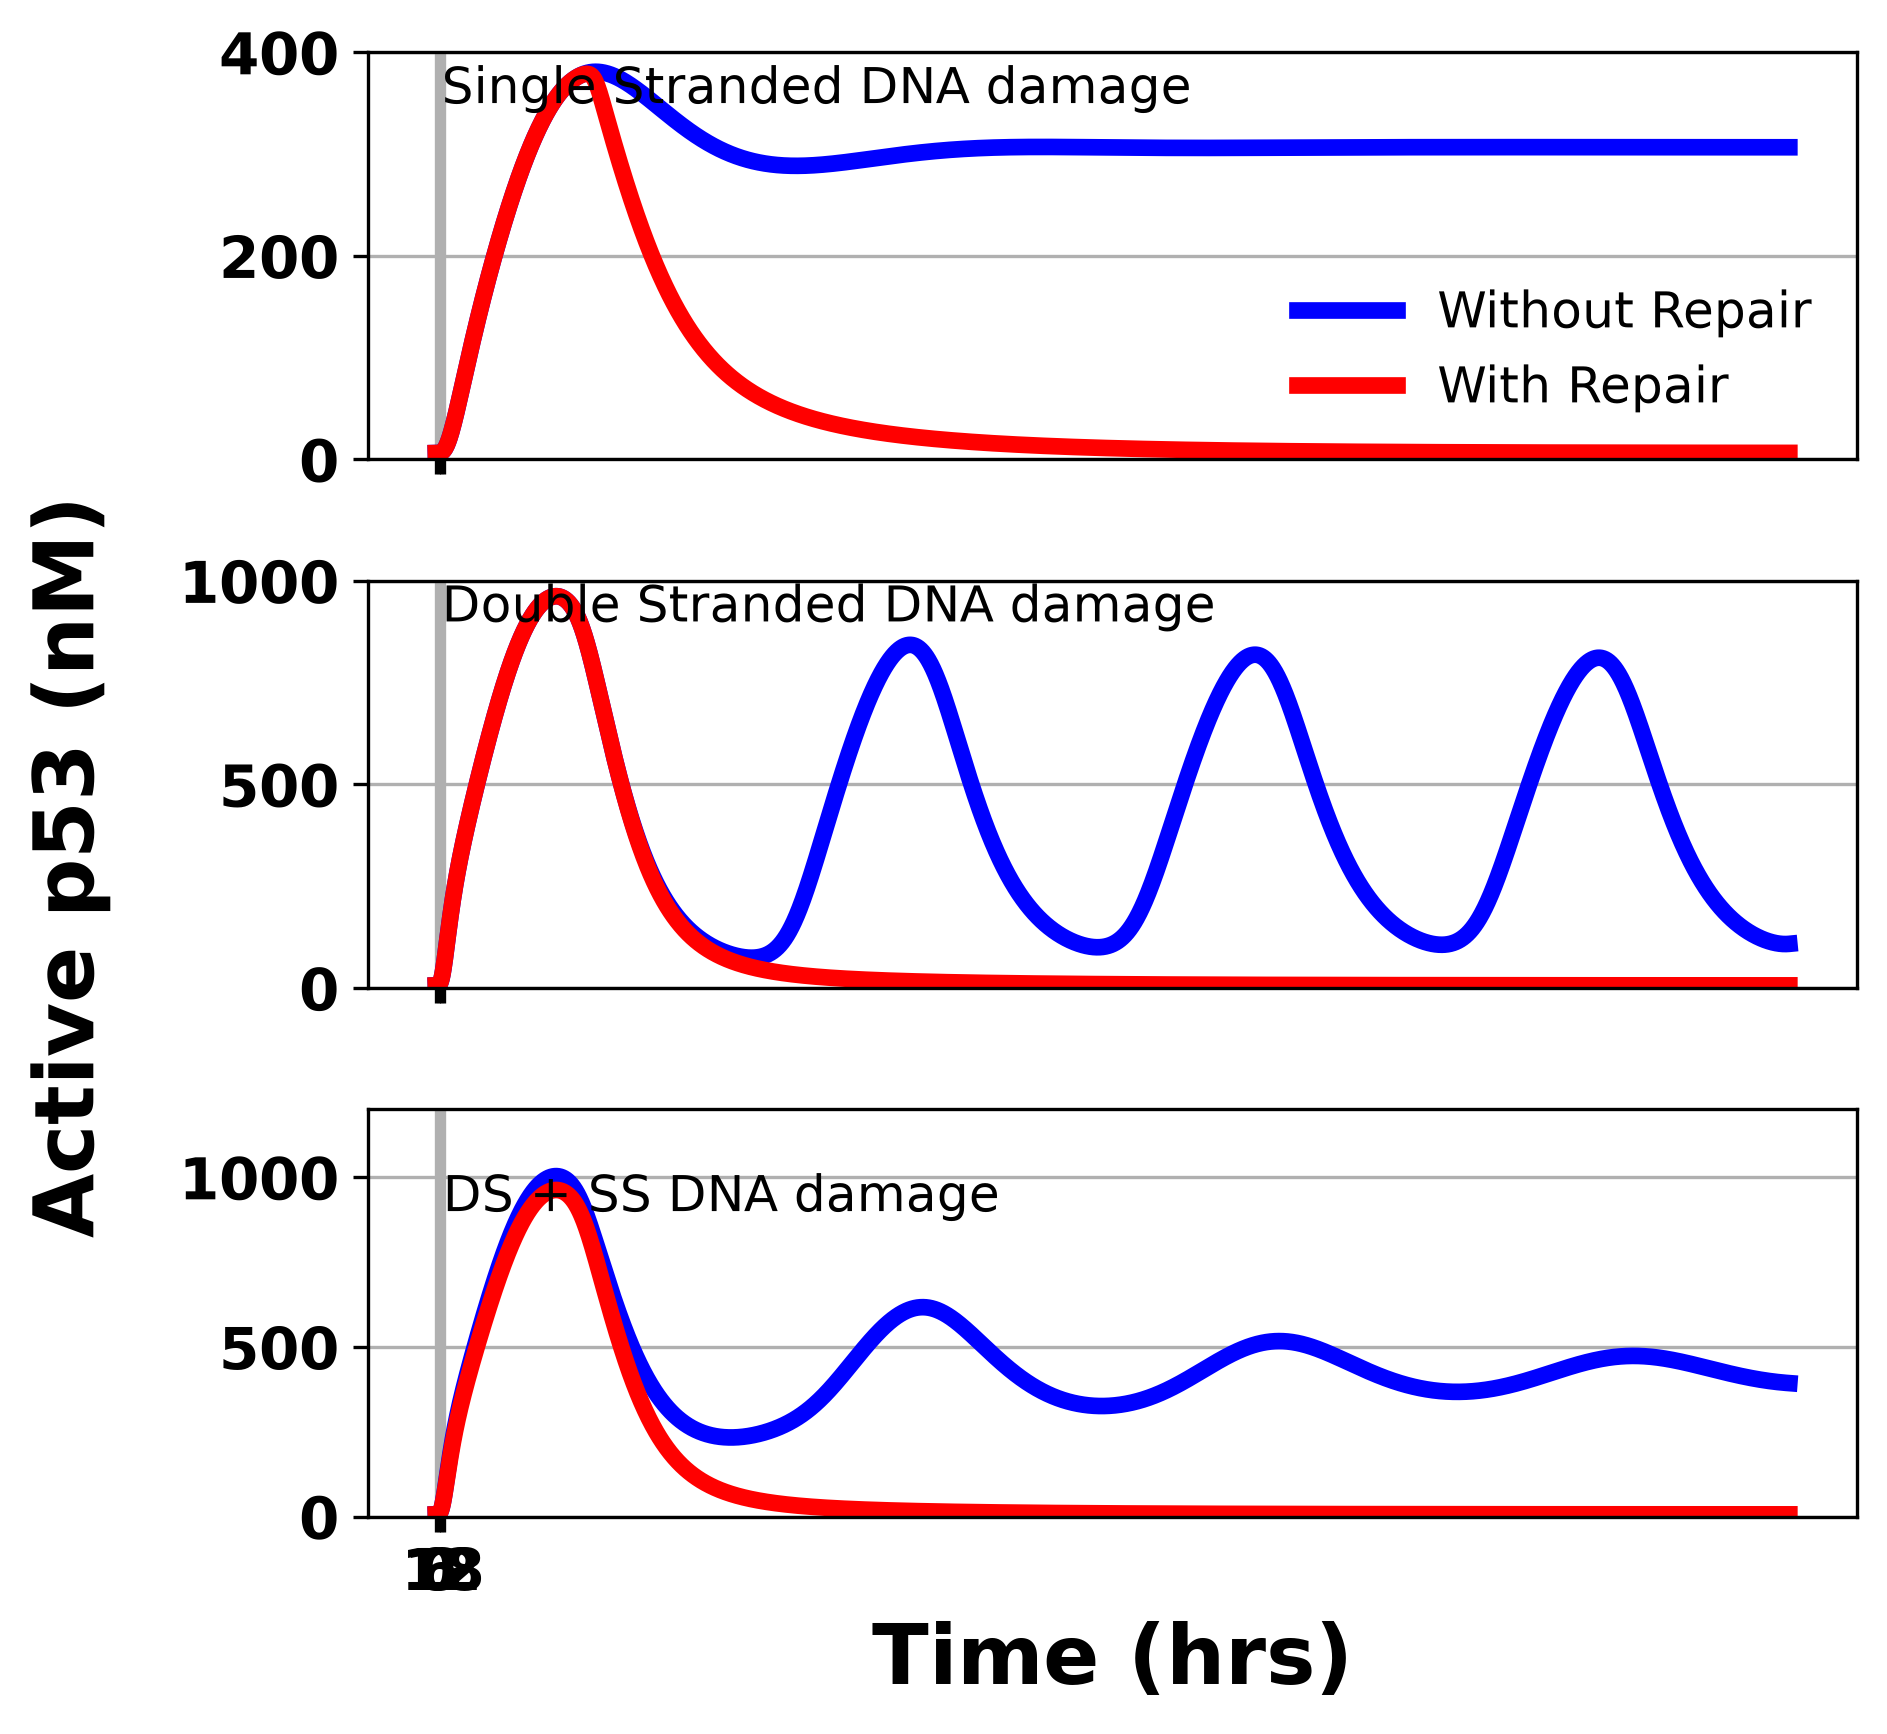
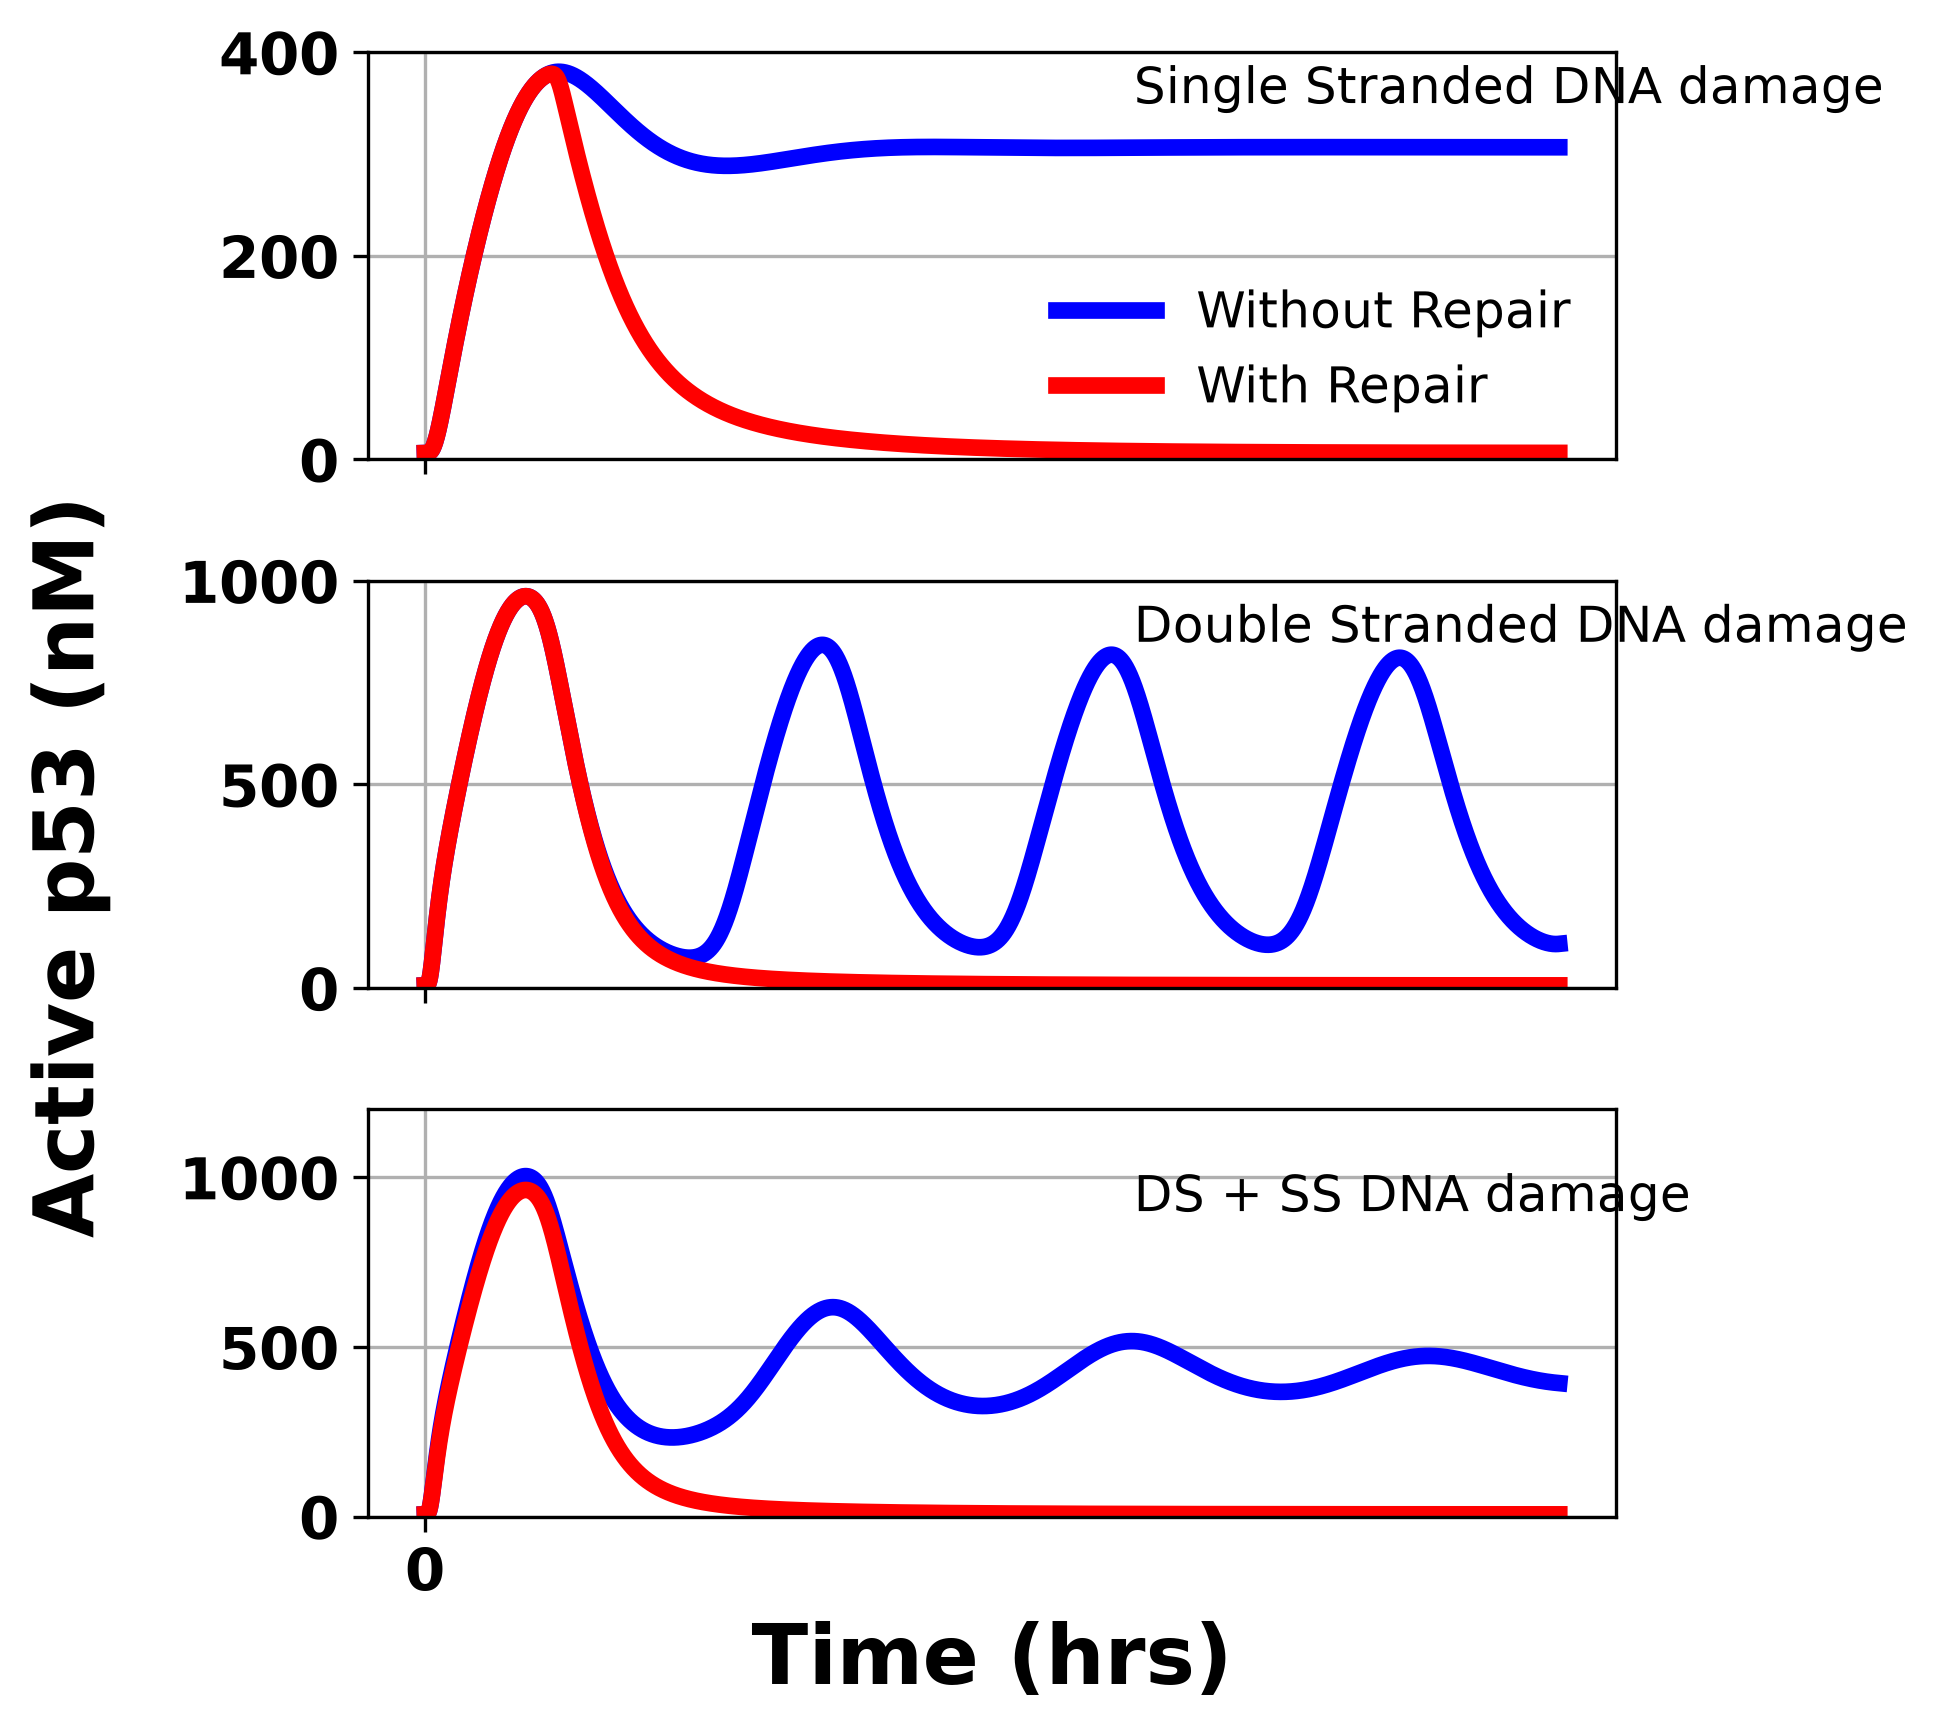
Attempt to fix DNA repair figure

diff --git a/models/official/stochastic-gene-expression-v1.4.2/results/benchmarks/DNA_repair/plot.py b/models/official/stochastic-gene-expression-v1.4.2/results/benchmarks/DNA_repair/plot.py
@@ -44,10 +44,10 @@ def style_ticks(ax, axis="both"):
 single_without_repair = pd.read_csv("DNA_repair_step_1_cell_1.tsv", sep="\t", index_col=0)
 single_with_repair =    pd.read_csv("DNA_repair_step_2_cell_1.tsv", sep="\t", index_col=0)
 
-axs[0].plot(single_without_repair.index,
+axs[0].plot(single_without_repair.index / 3600,
             single_without_repair["nuc_prot_a__P53_"],
             label='Without Repair', color='blue', linewidth=4)
-axs[0].plot(single_with_repair.index,
+axs[0].plot(single_with_repair.index / 3600,
             single_with_repair["nuc_prot_a__P53_"],
             label='With Repair', color='red', linewidth=4)
             
@@ -55,40 +55,40 @@ axs[0].grid(True)
 axs[0].set_ylim(0, 400)
 axs[0].set_xticks(np.arange(0, 24, step=6))
 axs[0].legend(frameon=False)
-axs[0].text(12.50, 350.0, 'Single Stranded DNA damage', fontsize=12)
+axs[0].text(0.50, 350.0, 'Single Stranded DNA damage', fontsize=12)
 style_ticks(axs[0])
 
 # (2) Plot double stranded break results
 double_without_repair = pd.read_csv("DNA_repair_step_3_cell_1.tsv", sep="\t", index_col=0)
 double_with_repair =    pd.read_csv("DNA_repair_step_4_cell_1.tsv", sep="\t", index_col=0)
 
-axs[1].plot(double_without_repair.index,
+axs[1].plot(double_without_repair.index / 3600,
             double_without_repair["nuc_prot_a__P53_"],
             label='Without Repair', color='blue', linewidth=4)
-axs[1].plot(double_with_repair.index,
+axs[1].plot(double_with_repair.index / 3600,
             double_with_repair["nuc_prot_a__P53_"],
             label='With Repair', color='red', linewidth=4)
 
 axs[1].grid(True)
 axs[1].set_xticks(np.arange(0, 24, step=6))
 axs[1].set_ylim(0, 1000)
-axs[1].text(12.50, 900.0, 'Double Stranded DNA damage', fontsize=12)
+axs[1].text(0.50, 850.0, 'Double Stranded DNA damage', fontsize=12)
 style_ticks(axs[1])
 
 # (3) Single and double stranded breaks results
 single_and_double_without_repair = pd.read_csv("DNA_repair_step_5_cell_1.tsv", sep="\t", index_col=0)
 single_and_double_with_repair =    pd.read_csv("DNA_repair_step_6_cell_1.tsv", sep="\t", index_col=0)
 
-axs[2].plot(single_and_double_without_repair.index,
+axs[2].plot(single_and_double_without_repair.index / 3600,
             single_and_double_without_repair["nuc_prot_a__P53_"],
             label='Without Repair', color='blue', linewidth=4)
-axs[2].plot(single_and_double_with_repair.index,
+axs[2].plot(single_and_double_with_repair.index / 3600,
             single_and_double_with_repair["nuc_prot_a__P53_"],
             label='With Repair', color='red', linewidth=4)
 
 axs[2].grid(True)
 axs[2].set_ylim(0, 1200)
-axs[2].text(15.0, 900.0, 'DS + SS DNA damage', fontsize=12)
+axs[2].text(0.50, 900.0, 'DS + SS DNA damage', fontsize=12)
 axs[2].set_xlabel('Time (hrs)', weight='bold', fontsize=20)
 style_ticks(axs[2], axis="both")
 
